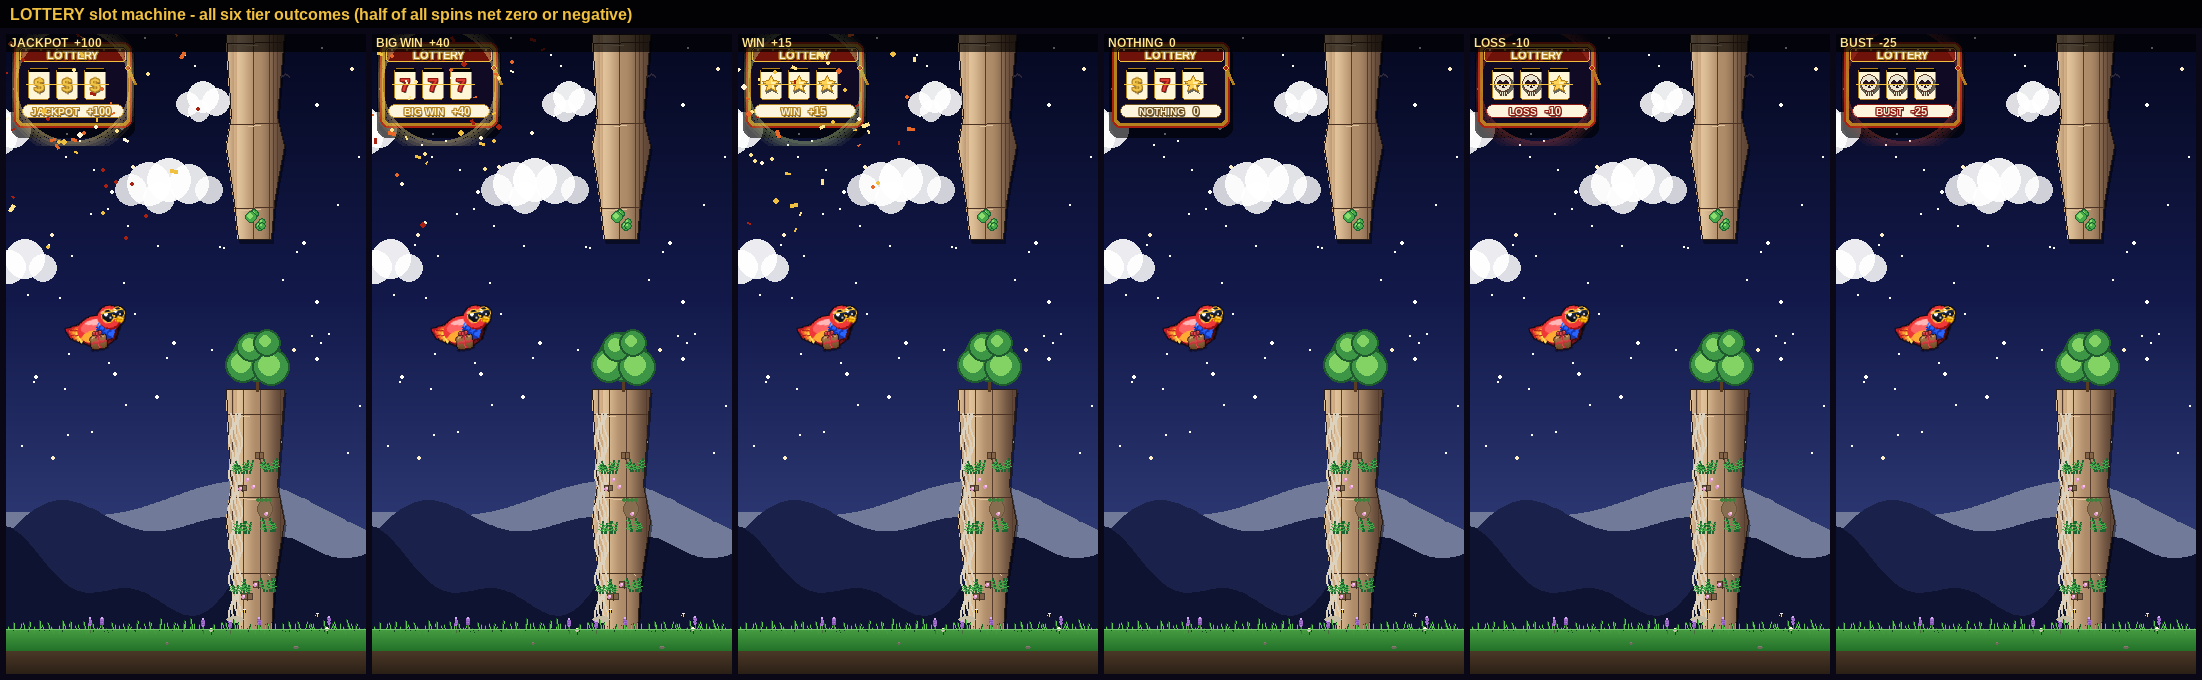
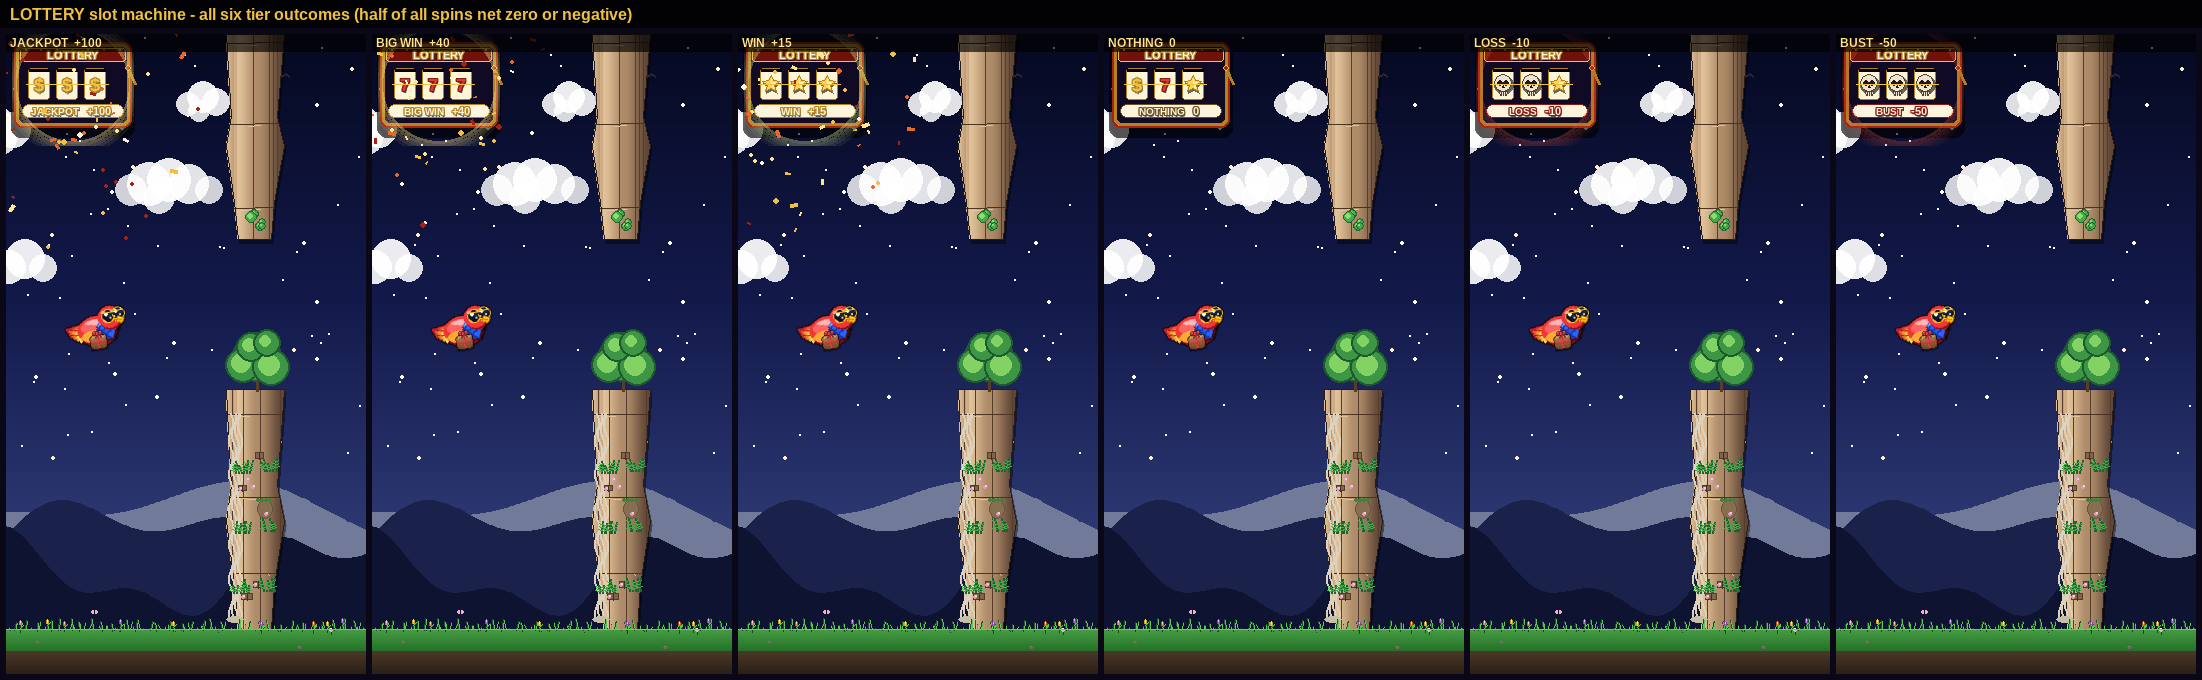
lottery: tune economy — BUST -50, NOTHING becomes the modal outcome
Two design changes per feedback:

1. BUST goes from -25 to -50 coins. A bust now wipes out ~7 average
   spins of progress, making the deep-loss tier genuinely punishing
   instead of merely annoying.

2. Re-weighted so NOTHING (0 change) is the modal outcome. Previous
   weights had WIN (+15) at 30 % as the single most common result,
   which felt too generous and made every powerup pickup feel like
   a guaranteed payday. New distribution:

       JACKPOT  +100    5 %   (unchanged)
       BIG WIN  +40    12 %   (was 15 %)
       WIN      +15    20 %   (was 30 %)
       NOTHING    0    35 %   (was 15 %, now modal)
       LOSS     -10    20 %   (was 25 %)
       BUST     -50     8 %   (was 10 %, value doubled)

   Bands: 37 % wins / 35 % nothing / 28 % losses.
   Expected value: +6.8 coins per spin — still slightly positive so
   the powerup feels rewarding overall, but the -50 BUST plus a
   modal "nothing happened" outcome give the slot real bite.

The outcomes-grid summary panel now shows wins/nothing/losses %
totals and the computed EV so we can iterate on weights and see the
balance change in one place. Labels for each tier are driven by a
TIER_WEIGHT dict so the grid stays in sync if we re-tune again.

game/config.py LOTTERY_TIERS will need to match these once a
direction is locked in; nothing in game/ is changed yet.

https://claude.ai/code/session_011Rwr2kDa4mkn8r5t9PTziv

Changed region(s): [[0.0, 0.8956, 1.0, 0.9265]]

diff --git a/archive/lottery_design/render_slot_pro.py b/archive/lottery_design/render_slot_pro.py
@@ -2,27 +2,36 @@
 tiers as discrete reel outcomes.
 
 The wheel mockups grabbed too much screen real estate; the slot cabinet
-collapses to roughly 120 x 80 px in the top-left corner instead. Same
-six tiers from game/config.py LOTTERY_TIERS:
+collapses to roughly 120 x 80 px in the top-left corner instead.
 
-  $ $ $   ->  JACKPOT  +100   (5 % weight)
-  7 7 7   ->  BIG WIN  +40    (15 %)
-  * * *   ->  WIN      +15    (30 %)
-  mixed   ->  NOTHING    0    (15 %)
-  X X *   ->  LOSS     -10    (25 %)   two skulls, one other
-  X X X   ->  BUST     -25    (10 %)   three skulls — the worst
+Proposed tier values + weights (the game's LOTTERY_TIERS in config.py
+will need to match once a design is locked in):
 
-So roughly half the spins (NOTHING + LOSS + BUST = 50 %) don't pay out,
-and 10 % actively cost the player coins. The visual makes that risk
-visible: skulls in the reel window read as a warning, not a payout.
+  $ $ $   ->  JACKPOT  +100   (5 %)    matching gold dollars
+  7 7 7   ->  BIG WIN  +40    (12 %)   matching red sevens
+  * * *   ->  WIN      +15    (20 %)   matching gold stars
+  mixed   ->  NOTHING    0    (35 %)   most common — modal outcome
+  X X *   ->  LOSS     -10    (20 %)   two skulls + filler
+  X X X   ->  BUST     -50    (8 %)    three skulls, deep loss
+
+Probability bands:
+  wins     37 %   (JACKPOT + BIG WIN + WIN)
+  nothing  35 %   (most common — the slot doesn't always pay)
+  losses   28 %   (LOSS + BUST)
+
+Expected value per spin: +6.8 coins — slightly positive so the powerup
+feels rewarding overall, but a single BUST wipes out ~7 average spins
+of progress, which makes the risk real.
 
 Everything (cabinet, reels, marquee, result strip) lives inside the
 top-left footprint. The result strip flips from "LOTTERY" during the
 spin to the tier name + value at reveal.
 
 Output:
-  ./screenshots/slot_pro_triptych.png    spin/settling/reveal arc (JACKPOT)
-  ./screenshots/slot_pro_outcomes.png    all 6 tier outcomes side by side
+  ./screenshots/slot_pro_triptych.png        spin/settling/reveal arc
+  ./screenshots/slot_pro_outcomes.png        6 outcomes at native size
+  ./screenshots/slot_pro_outcomes_grid.png   2x3 zoomed comparison
+  ./screenshots/slot_pro_zoom.png            4x JACKPOT close-up
 
 Run:
     python archive/lottery_design/render_slot_pro.py
@@ -198,8 +207,23 @@ TIER_VALUE = {
     "WIN":      +15,
     "NOTHING":    0,
     "LOSS":     -10,
-    "BUST":     -25,
+    "BUST":     -50,
 }
+
+# Proposed re-tuning — game/config.py LOTTERY_TIERS will need to match
+# once a design is locked in. NOTHING becomes the modal outcome (35 %),
+# wins stay enticing but rarer, and BUST is the new -50 deep loss.
+# Expected value works out to +6.8 coins/spin — slightly positive so
+# the powerup feels rewarding overall while still real risk.
+TIER_WEIGHT = {
+    "JACKPOT":  5,
+    "BIG WIN": 12,
+    "WIN":     20,
+    "NOTHING": 35,
+    "LOSS":    20,
+    "BUST":     8,
+}
+assert sum(TIER_WEIGHT.values()) == 100
 
 
 def _value_str(v: int) -> str:
@@ -449,12 +473,17 @@ def _build_outcomes_sheet() -> pygame.Surface:
     return sheet
 
 
+def _expected_value() -> float:
+    return sum(TIER_VALUE[t] * TIER_WEIGHT[t] for t in TIER_VALUE) / 100.0
+
+
 def _build_outcomes_grid() -> pygame.Surface:
     """Compact 2x3 grid of just the slot cabinet at each tier outcome —
     same content as outcomes_sheet but laid out for easy at-a-glance
-    comparison without the surrounding gameplay backdrop."""
+    comparison without the surrounding gameplay backdrop. Labels and
+    weights are driven by TIER_WEIGHT / TIER_VALUE so the grid stays
+    in sync if those are tuned."""
     order = ("JACKPOT", "BIG WIN", "WIN", "NOTHING", "LOSS", "BUST")
-    # Crop just the cabinet area (top-left 140 x 110) from a full frame.
     crops = []
     for tier in order:
         frame = _render_frame(1.0, tier=tier)
@@ -463,27 +492,43 @@ def _build_outcomes_grid() -> pygame.Surface:
     scale_w, scale_h = 350, 275       # 2.5x of the 140x110 crop
     cols, rows = 3, 2
     pad = 12
-    header_h = 32
+    header_h = 56
     label_h = 28
     sheet_w = pad + cols * (scale_w + pad)
     sheet_h = header_h + pad + rows * (scale_h + pad + label_h)
     sheet = pygame.Surface((sheet_w, sheet_h))
     sheet.fill((10, 8, 22))
-    sheet.blit(_pro_font(16).render(
-        "Slot machine - all 6 tier outcomes at reveal "
-        "(half of spins net zero or negative)", True, GOLD_BRIGHT), (pad, 6))
-    labels = (
-        "JACKPOT +100  (5%)",  "BIG WIN +40  (15%)",  "WIN +15  (30%)",
-        "NOTHING 0  (15%)",    "LOSS -10  (25%)",     "BUST -25  (10%)",
-    )
-    for i, (crop, lbl) in enumerate(zip(crops, labels)):
+
+    # Top title.
+    sheet.blit(_pro_font(18).render(
+        "Slot machine - 6 tier outcomes at reveal", True, GOLD_BRIGHT),
+        (pad, 6))
+    # Probability breakdown summary.
+    pos = sum(TIER_WEIGHT[t] for t in ("JACKPOT", "BIG WIN", "WIN"))
+    neg = sum(TIER_WEIGHT[t] for t in ("LOSS", "BUST"))
+    nil = TIER_WEIGHT["NOTHING"]
+    ev = _expected_value()
+    summary = (f"wins {pos}%   nothing {nil}%   losses {neg}%"
+               f"     expected value per spin: {ev:+.1f} coins")
+    sheet.blit(_pro_font(13).render(summary, True, GOLD_PALE),
+               (pad, 30))
+
+    for i, (tier, crop) in enumerate(zip(order, crops)):
         row, col = divmod(i, cols)
         x = pad + col * (scale_w + pad)
         y = header_h + pad + row * (scale_h + pad + label_h)
         big = pygame.transform.scale(crop, (scale_w, scale_h))
         sheet.blit(big, (x, y))
-        sheet.blit(_pro_font(13).render(lbl, True, GOLD_PALE),
-                   (x + 4, y + scale_h + 4))
+        value = TIER_VALUE[tier]
+        weight = TIER_WEIGHT[tier]
+        # Render the line in two colours: tier+value in GOLD_PALE,
+        # weight % in a softer cream so it reads as the secondary stat.
+        head = f"{tier}  {_value_str(value)}"
+        head_img = _pro_font(13).render(head, True, GOLD_PALE)
+        wt_img = _pro_font(12).render(f"   ({weight} %)", True, CREAM)
+        sheet.blit(head_img, (x + 4, y + scale_h + 4))
+        sheet.blit(wt_img, (x + 4 + head_img.get_width(),
+                            y + scale_h + 5))
     return sheet
 
 
